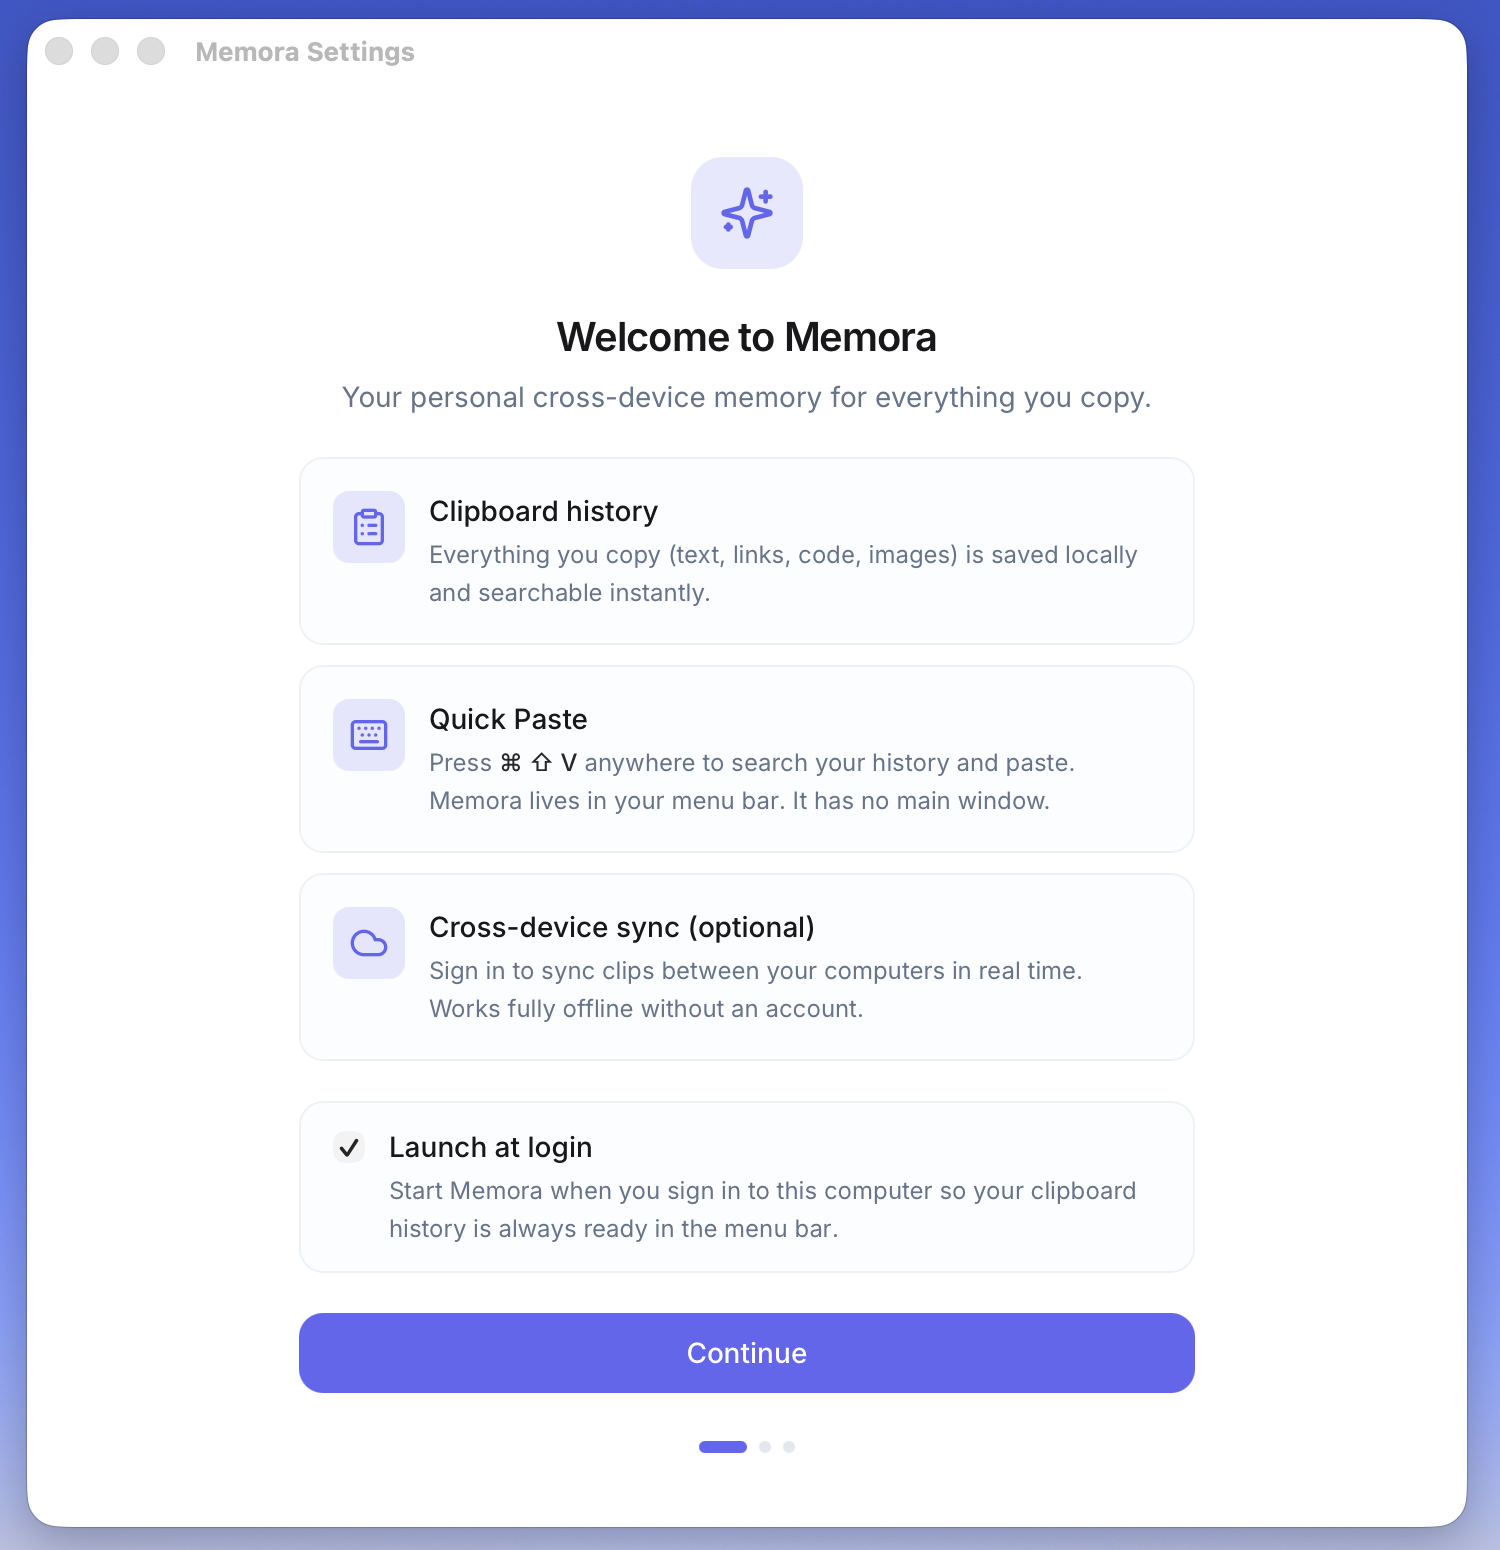
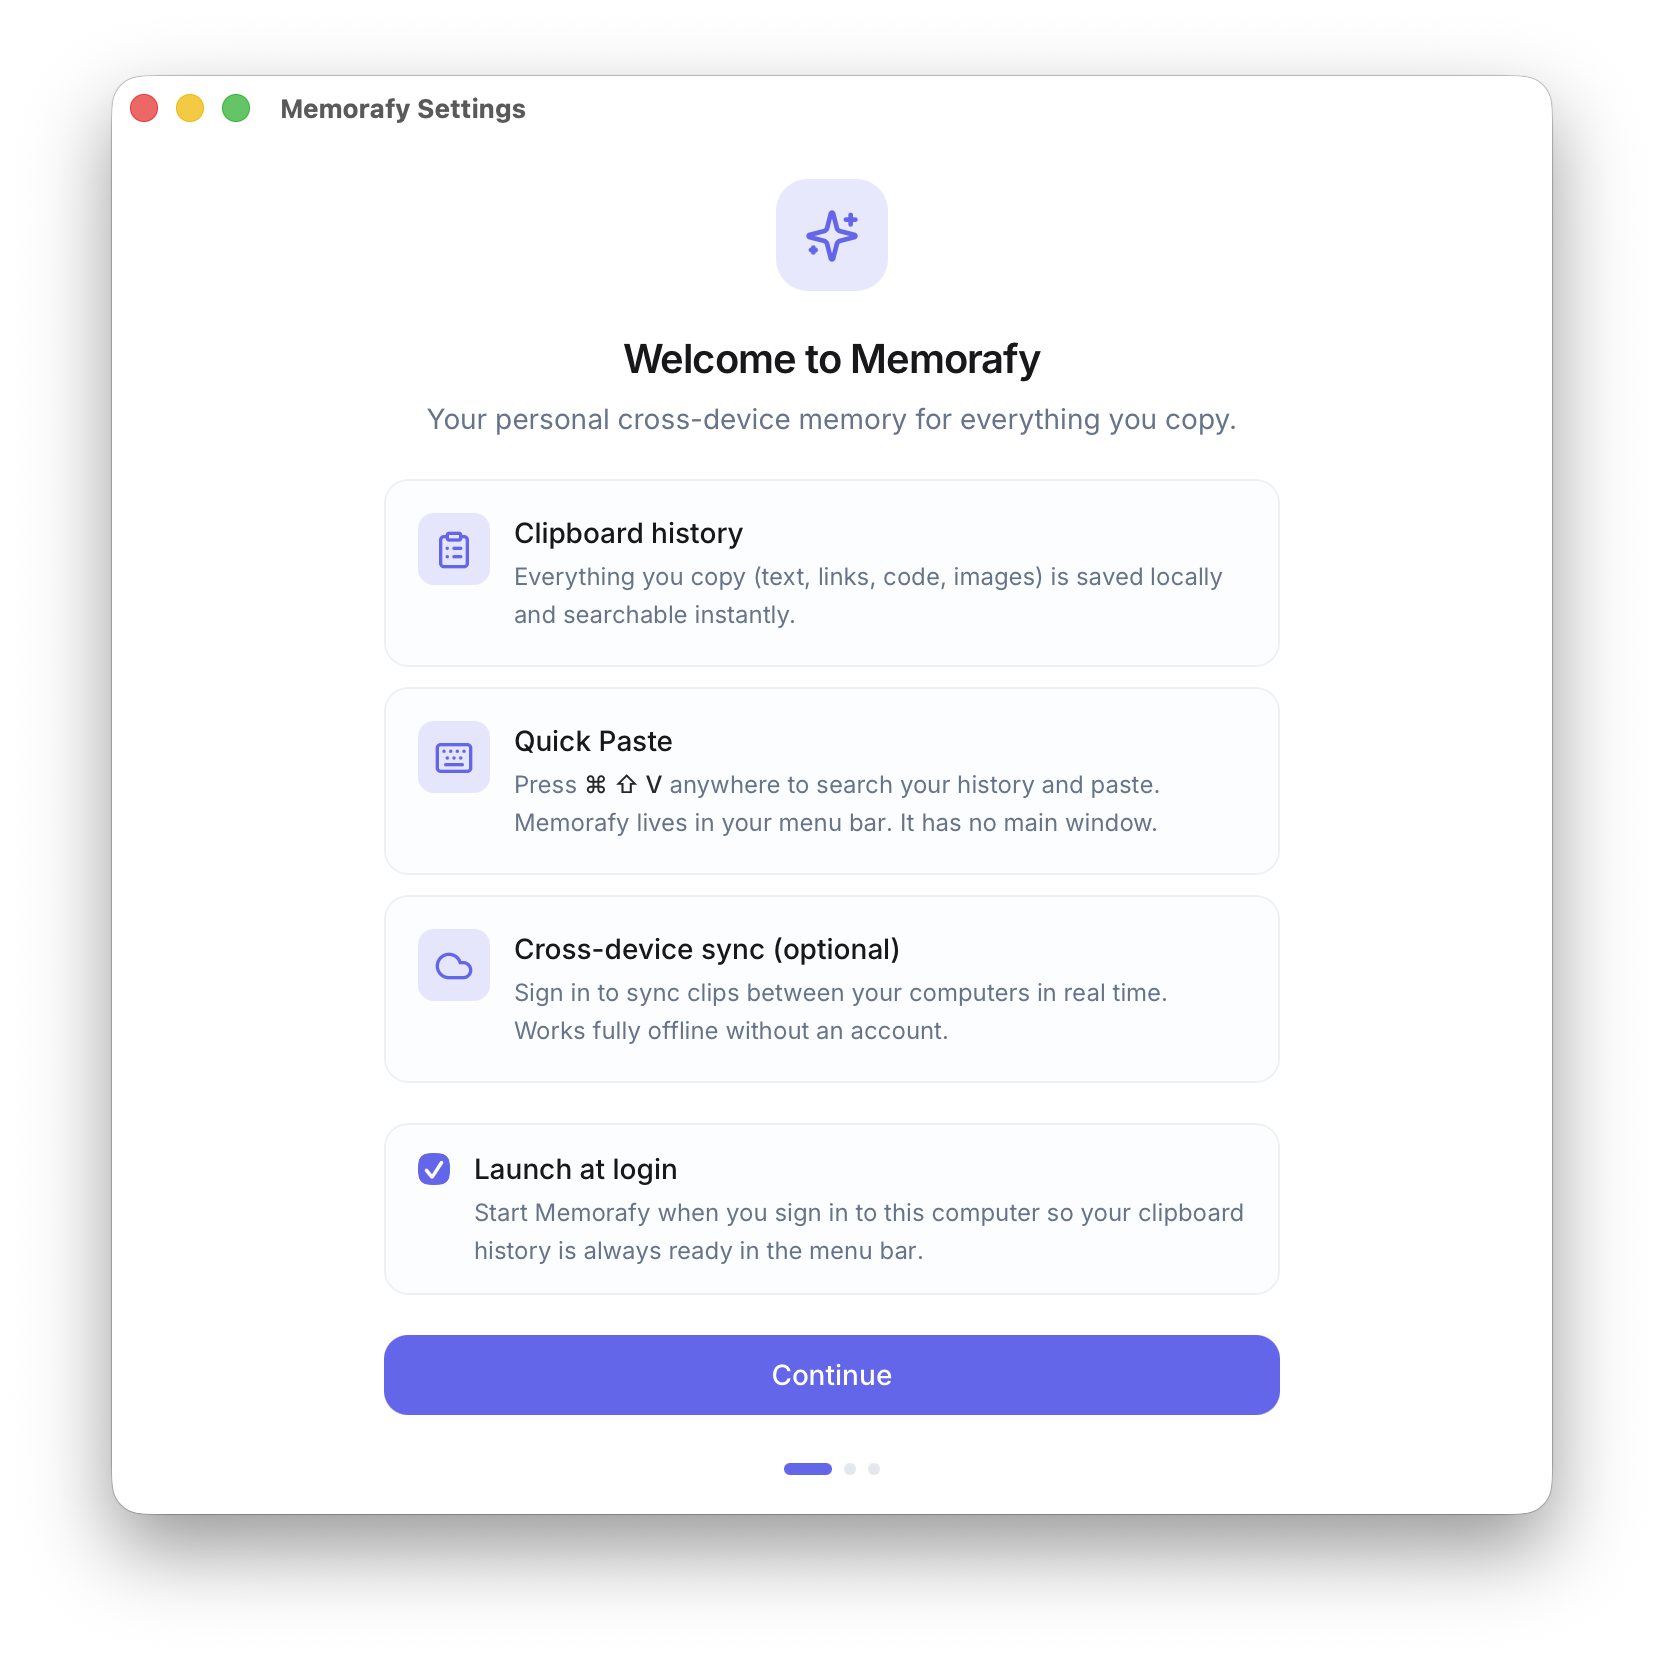
Refactor code structure for improved readability and maintainability

diff --git a/README.md b/README.md
@@ -22,19 +22,19 @@
 ---
 
 <p align="center">
-  <img src="docs/screenshots/quick-paste.png" alt="Quick Paste overlay" width="680" />
+  <img src="docs/screenshots/onboarding.png" alt="Onboarding" width="680" />
 </p>
 
 <table>
   <tr>
-    <td align="center"><img src="docs/screenshots/tray-panel.png" alt="Tray panel" width="260" /></td>
-    <td align="center"><img src="docs/screenshots/onboarding.png" alt="Onboarding" width="300" /></td>
-    <td align="center"><img src="docs/screenshots/dark-settings-account.png" alt="Settings in dark mode" width="300" /></td>
+    <td align="center"><img src="docs/screenshots/menu-bar.png" alt="Menu Bar Panel" width="260" /></td>
+    <td align="center"><img src="docs/screenshots/quick-paste.png" alt="Quick Paste Overlay" width="300" /></td>
+    <td align="center"><img src="docs/screenshots/settings-account.png" alt="Settings" width="300" /></td>
   </tr>
   <tr>
-    <td align="center"><sub>Tray panel</sub></td>
-    <td align="center"><sub>First-launch onboarding</sub></td>
-    <td align="center"><sub>Settings (dark mode)</sub></td>
+    <td align="center"><sub>Menu bar</sub></td>
+    <td align="center"><sub>Quick paste overlay</sub></td>
+    <td align="center"><sub>Settings</sub></td>
   </tr>
 </table>
 
@@ -111,13 +111,16 @@ build from source or want your own backend, sync needs a free
 
 1. Create a project at [supabase.com](https://supabase.com).
 2. Apply the schema, either way works:
-   - **CLI (recommended):**
+   - **CLI (recommended)** — run from the **repo root**:
      ```bash
-     cd services
      npx supabase login
-     npx supabase link --project-ref <your-project-ref>
-     npx supabase db push
+     npx supabase link --project-ref <your-project-ref> --workdir services
+     npx supabase db push --workdir services
      ```
+     Use `--workdir services` (not `services/supabase`). The CLI expects
+     `services/supabase/config.toml` and `services/supabase/migrations/`.
+     `supabase status` needs Docker (local stack only); ignore that if you
+     only push schema to the hosted project.
    - **Or** connect the repo via the Supabase **GitHub integration**
      (Project Settings → Integrations → GitHub) with working directory
      `services/supabase`; migrations then apply on every push.